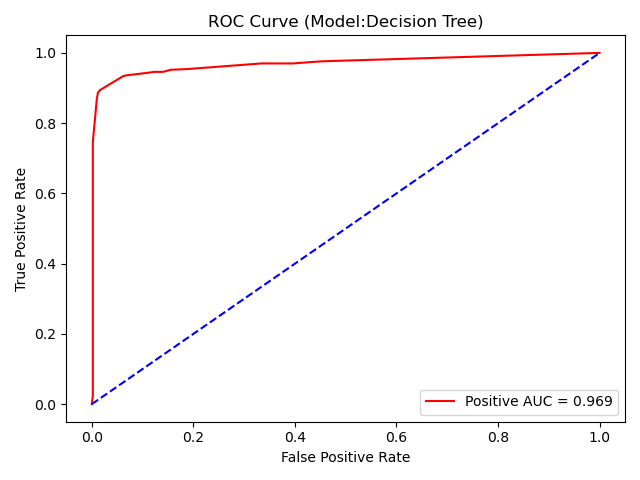
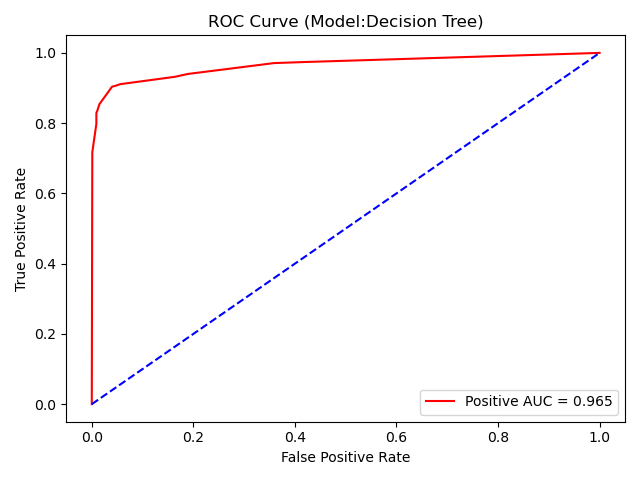
Plotted results

diff --git a/util/select.py b/util/select.py
@@ -1,6 +1,4 @@
 import pandas as pd
-import os
-import cv2
 from sklearn.utils import shuffle
 import numpy as np
 
@@ -20,6 +18,7 @@ def read(url):
     data_frame = data_frame[data_frame["Error"] != 2]
     train_csv = data_frame.rename(columns={'ML2classes': "Class"}).drop(columns=classified_data)
     train_csv["Class"] = train_csv["Class"].map({"1": int(1), "0": int(0)})
+    print(train_csv["Class"].value_counts())
     return train_csv[~train_csv["Class"].isin(['U', '--'])]
 
 
@@ -41,5 +40,5 @@ def balanced_select(raw_data, size):
 def select(base_url):
     data_frame = read(base_url)
     data_frame = data_frame.sample(frac=1)
-    data_frame = balanced_select(data_frame, 20000)
+    data_frame = balanced_select(data_frame, 5000)
     data_frame.to_csv("train.csv")
